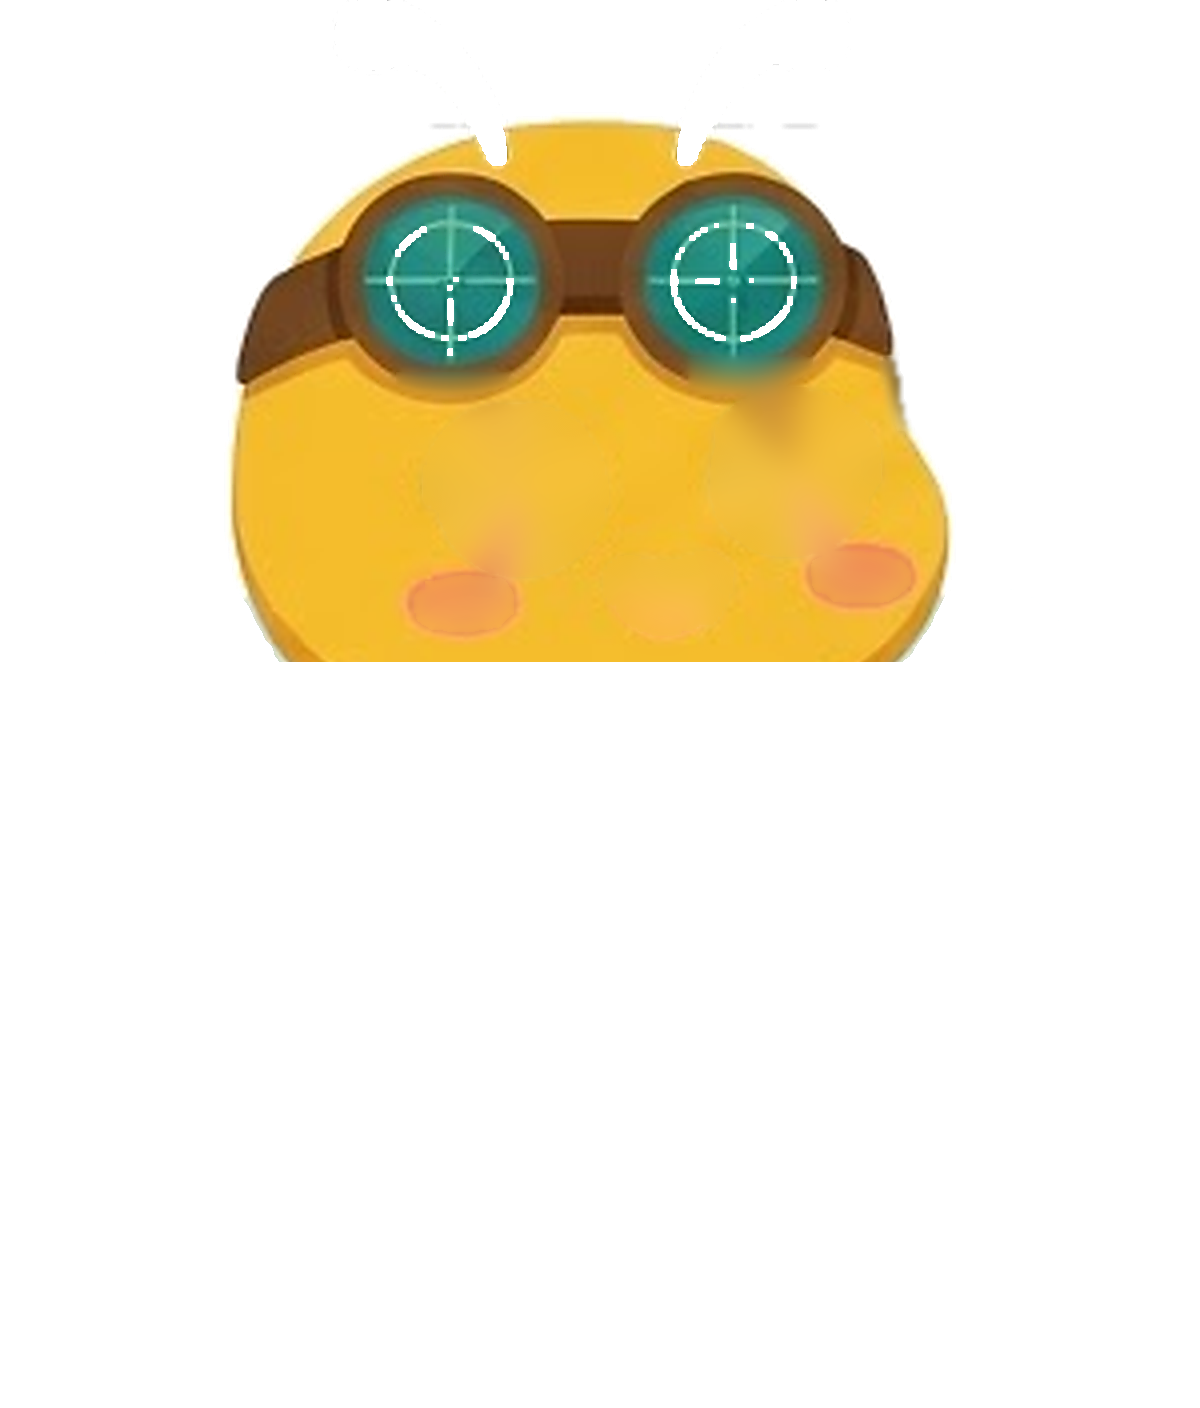
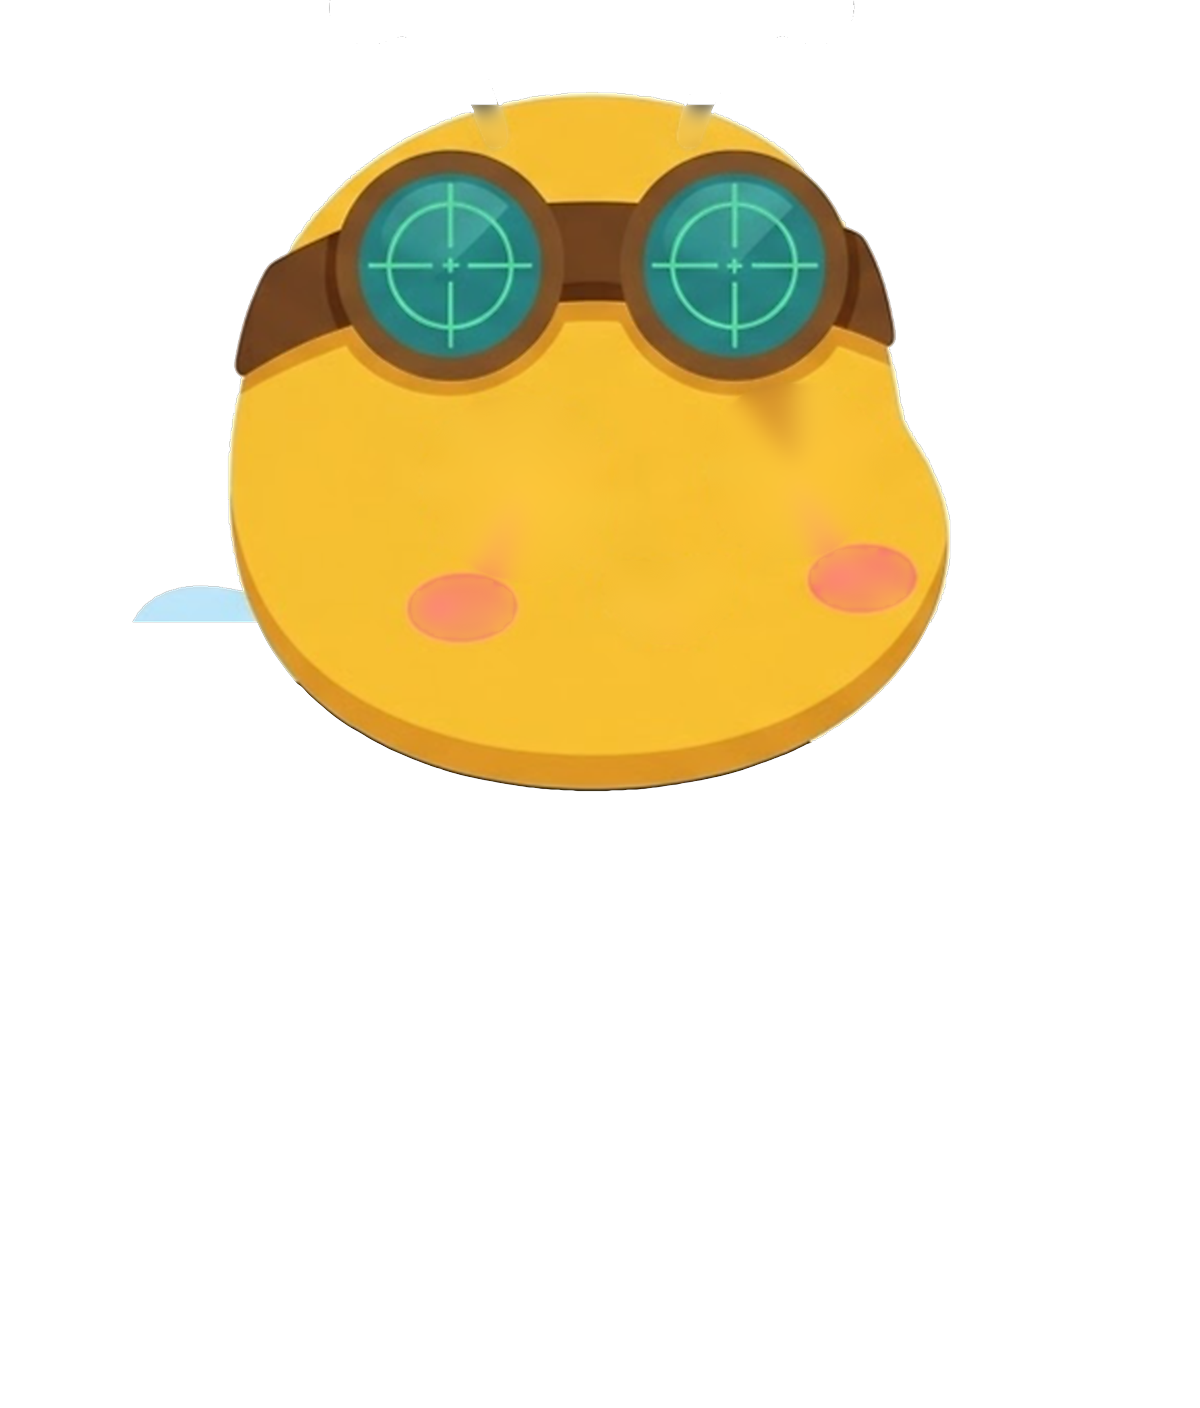
fix(mascot): restore natural round chin curve, bring back elastic bendable limbs for roaming, and center hero content below navbar

diff --git a/src/components/mascot/FloatingMascot.tsx b/src/components/mascot/FloatingMascot.tsx
@@ -7,8 +7,8 @@
 
 import { useEffect, useRef, useState } from 'react'
 import { usePathname } from 'next/navigation'
-import { Otbee4KPuppet, debugSurfaces } from './otbee'
-import type { Otbee4KPuppetHandle } from './otbee'
+import { OtbeeAvatar, Otbee4KPuppet, debugSurfaces } from './otbee'
+import type { OtbeeHandle, Otbee4KPuppetHandle } from './otbee'
 import { createController, type Bubble, type Controller } from './otbee/controller'
 import { createClient } from '@/lib/supabase/client'
 
@@ -16,7 +16,8 @@ const clamp = (v: number, a = 0, b = 1) => Math.max(a, Math.min(b, v))
 
 export default function FloatingMascot() {
   const pathname = usePathname()
-  const avatar = useRef<Otbee4KPuppetHandle>(null)
+  const puppetRef = useRef<Otbee4KPuppetHandle>(null)
+  const avatarRef = useRef<OtbeeHandle>(null)
   const containerRef = useRef<HTMLDivElement>(null)
   const popRef = useRef<HTMLDivElement>(null)
   const tiltRef = useRef<HTMLDivElement>(null)
@@ -37,6 +38,29 @@ export default function FloatingMascot() {
   const [growthProgress, setGrowthProgress] = useState(() => {
     if (typeof window === 'undefined') return 1
     return (pathname ?? '/') === '/' ? clamp(window.scrollY / 260) : 1
+  })
+
+  // Combined avatar handle dispatching to active mode (hero 4K puppet vs roaming elastic avatar)
+  const combinedAvatar = useRef<OtbeeHandle>({
+    play: (name, opts) => {
+      puppetRef.current?.play(name, opts)
+      avatarRef.current?.play(name, opts)
+    },
+    setView: (v) => {
+      avatarRef.current?.setView(v)
+      puppetRef.current?.setView(v)
+    },
+    fx: (type, side) => {
+      puppetRef.current?.fx(type, side)
+      avatarRef.current?.fx(type, side)
+    },
+    setFacing: (f) => {
+      puppetRef.current?.setFacing(f)
+      avatarRef.current?.setFacing(f)
+    },
+    get mixer() {
+      return (growthProgress >= 0.95 ? avatarRef.current?.mixer : puppetRef.current?.mixer) ?? puppetRef.current?.mixer!
+    },
   })
 
   useEffect(() => {
@@ -118,8 +142,8 @@ export default function FloatingMascot() {
           { text: 'Jangan lupa istirahat & jaga kesehatan yaa! ☕✨', clip: 'nod' },
         ]
         const r = reactions[Math.floor(Math.random() * reactions.length)]
-        avatar.current?.play(r.clip, { onDone: () => avatar.current?.play('idle') })
-        avatar.current?.fx('stars')
+        combinedAvatar.current.play(r.clip, { onDone: () => combinedAvatar.current.play('idle') })
+        combinedAvatar.current.fx('stars')
         setBubble({ id: Date.now(), text: r.text, below: false, shift: 0 })
         setTimeout(() => setBubble(null), 3800)
       } else {
@@ -169,7 +193,7 @@ export default function FloatingMascot() {
     const container = containerRef.current, pop = popRef.current, tilt = tiltRef.current
     if (!container || !pop || !tilt) return
     const c = createController({
-      avatar: () => avatar.current,
+      avatar: () => combinedAvatar.current,
       container, pop, tilt,
       size: () => sizeRef.current,
       name: () => nameRef.current,
@@ -291,13 +315,39 @@ export default function FloatingMascot() {
               transition: 'filter .2s',
             }}
           >
-            <Otbee4KPuppet
-              ref={avatar}
-              growthProgress={growthProgress}
-              size={size}
-              followPointer={!isDraggingState}
-              onErraticPointer={() => ctl.current?.onDizzy()}
-            />
+            {/* Stage A: 4K HD Round-Chin Interactive Head & Emergence in Hero (growthProgress < 0.95) */}
+            <div
+              style={{
+                display: growthProgress < 0.95 ? 'block' : 'none',
+                opacity: growthProgress < 0.95 ? 1 : 0,
+                transition: 'opacity 0.15s ease',
+              }}
+            >
+              <Otbee4KPuppet
+                ref={puppetRef}
+                growthProgress={growthProgress}
+                size={size}
+                followPointer={!isDraggingState}
+                onErraticPointer={() => ctl.current?.onDizzy()}
+              />
+            </div>
+
+            {/* Stage B: Fully Elastic Skeletal Mascot (skinD joints, elbow & knee bending, footsteps, saltos) for Roaming */}
+            <div
+              style={{
+                display: growthProgress >= 0.95 ? 'block' : 'none',
+                opacity: growthProgress >= 0.95 ? 1 : 0,
+                transition: 'opacity 0.15s ease',
+              }}
+            >
+              <OtbeeAvatar
+                ref={avatarRef}
+                view="front"
+                size={size}
+                followPointer={!isDraggingState}
+                onErraticPointer={() => ctl.current?.onDizzy()}
+              />
+            </div>
           </div>
         </div>
       </div>

diff --git a/src/components/landing/HeroSection.tsx b/src/components/landing/HeroSection.tsx
@@ -113,7 +113,7 @@ export default function HeroSection() {
   }, [])
 
   return (
-    <section id="hero-section" ref={sectionRef} className="relative overflow-hidden min-h-screen flex items-center pt-20 md:pt-0">
+    <section id="hero-section" ref={sectionRef} className="relative overflow-hidden min-h-screen flex items-center pt-28 md:pt-32 pb-12 md:pb-16">
 
       {/* Honeycomb background texture */}
       <HoneycombBg opacity={0.18} colorScheme="light" size={30} />
@@ -123,8 +123,8 @@ export default function HeroSection() {
         src="/bee1-hd.png"
         desktopSize={220}
         mobileSize={58}
-        desktopPos={{ left: 'max(20px, calc(50% - 620px))', top: '32%' }}
-        mobilePos={{ left: '12px', top: '135px' }}
+        desktopPos={{ left: 'max(20px, calc(50% - 620px))', top: '34%' }}
+        mobilePos={{ left: '12px', top: '155px' }}
         rotate={8}
         floatY={14} floatDur={4.2} floatDelay={0}
         parallaxFactor={60} entranceDelay={0.2}
@@ -135,8 +135,8 @@ export default function HeroSection() {
         src="/bee2-hd.png"
         desktopSize={145}
         mobileSize={52}
-        desktopPos={{ right: 'max(20px, calc(50% - 600px))', top: '20%' }}
-        mobilePos={{ right: '12px', top: '145px' }}
+        desktopPos={{ right: 'max(20px, calc(50% - 600px))', top: '22%' }}
+        mobilePos={{ right: '12px', top: '165px' }}
         rotate={7}
         floatY={12} floatDur={3.8} floatDelay={0.9}
         parallaxFactor={40} entranceDelay={0.4}
@@ -154,7 +154,7 @@ export default function HeroSection() {
         parallaxFactor={90} entranceDelay={0.6}
       />
 
-      <div className="relative z-10 px-4 flex flex-col items-center text-center max-w-3xl mx-auto w-full py-12 md:py-16">
+      <div className="relative z-10 px-4 flex flex-col items-center text-center max-w-3xl mx-auto w-full py-8 md:py-12">
         <motion.h1 {...fadeUp(0.04)} className="text-hero text-gray-950 mb-6 md:mb-7 leading-[1.14] tracking-tight">
           Masuk PTN Impianmu{' '}
           <span className="inline-flex items-center align-middle flex-wrap gap-2.5 justify-center">
